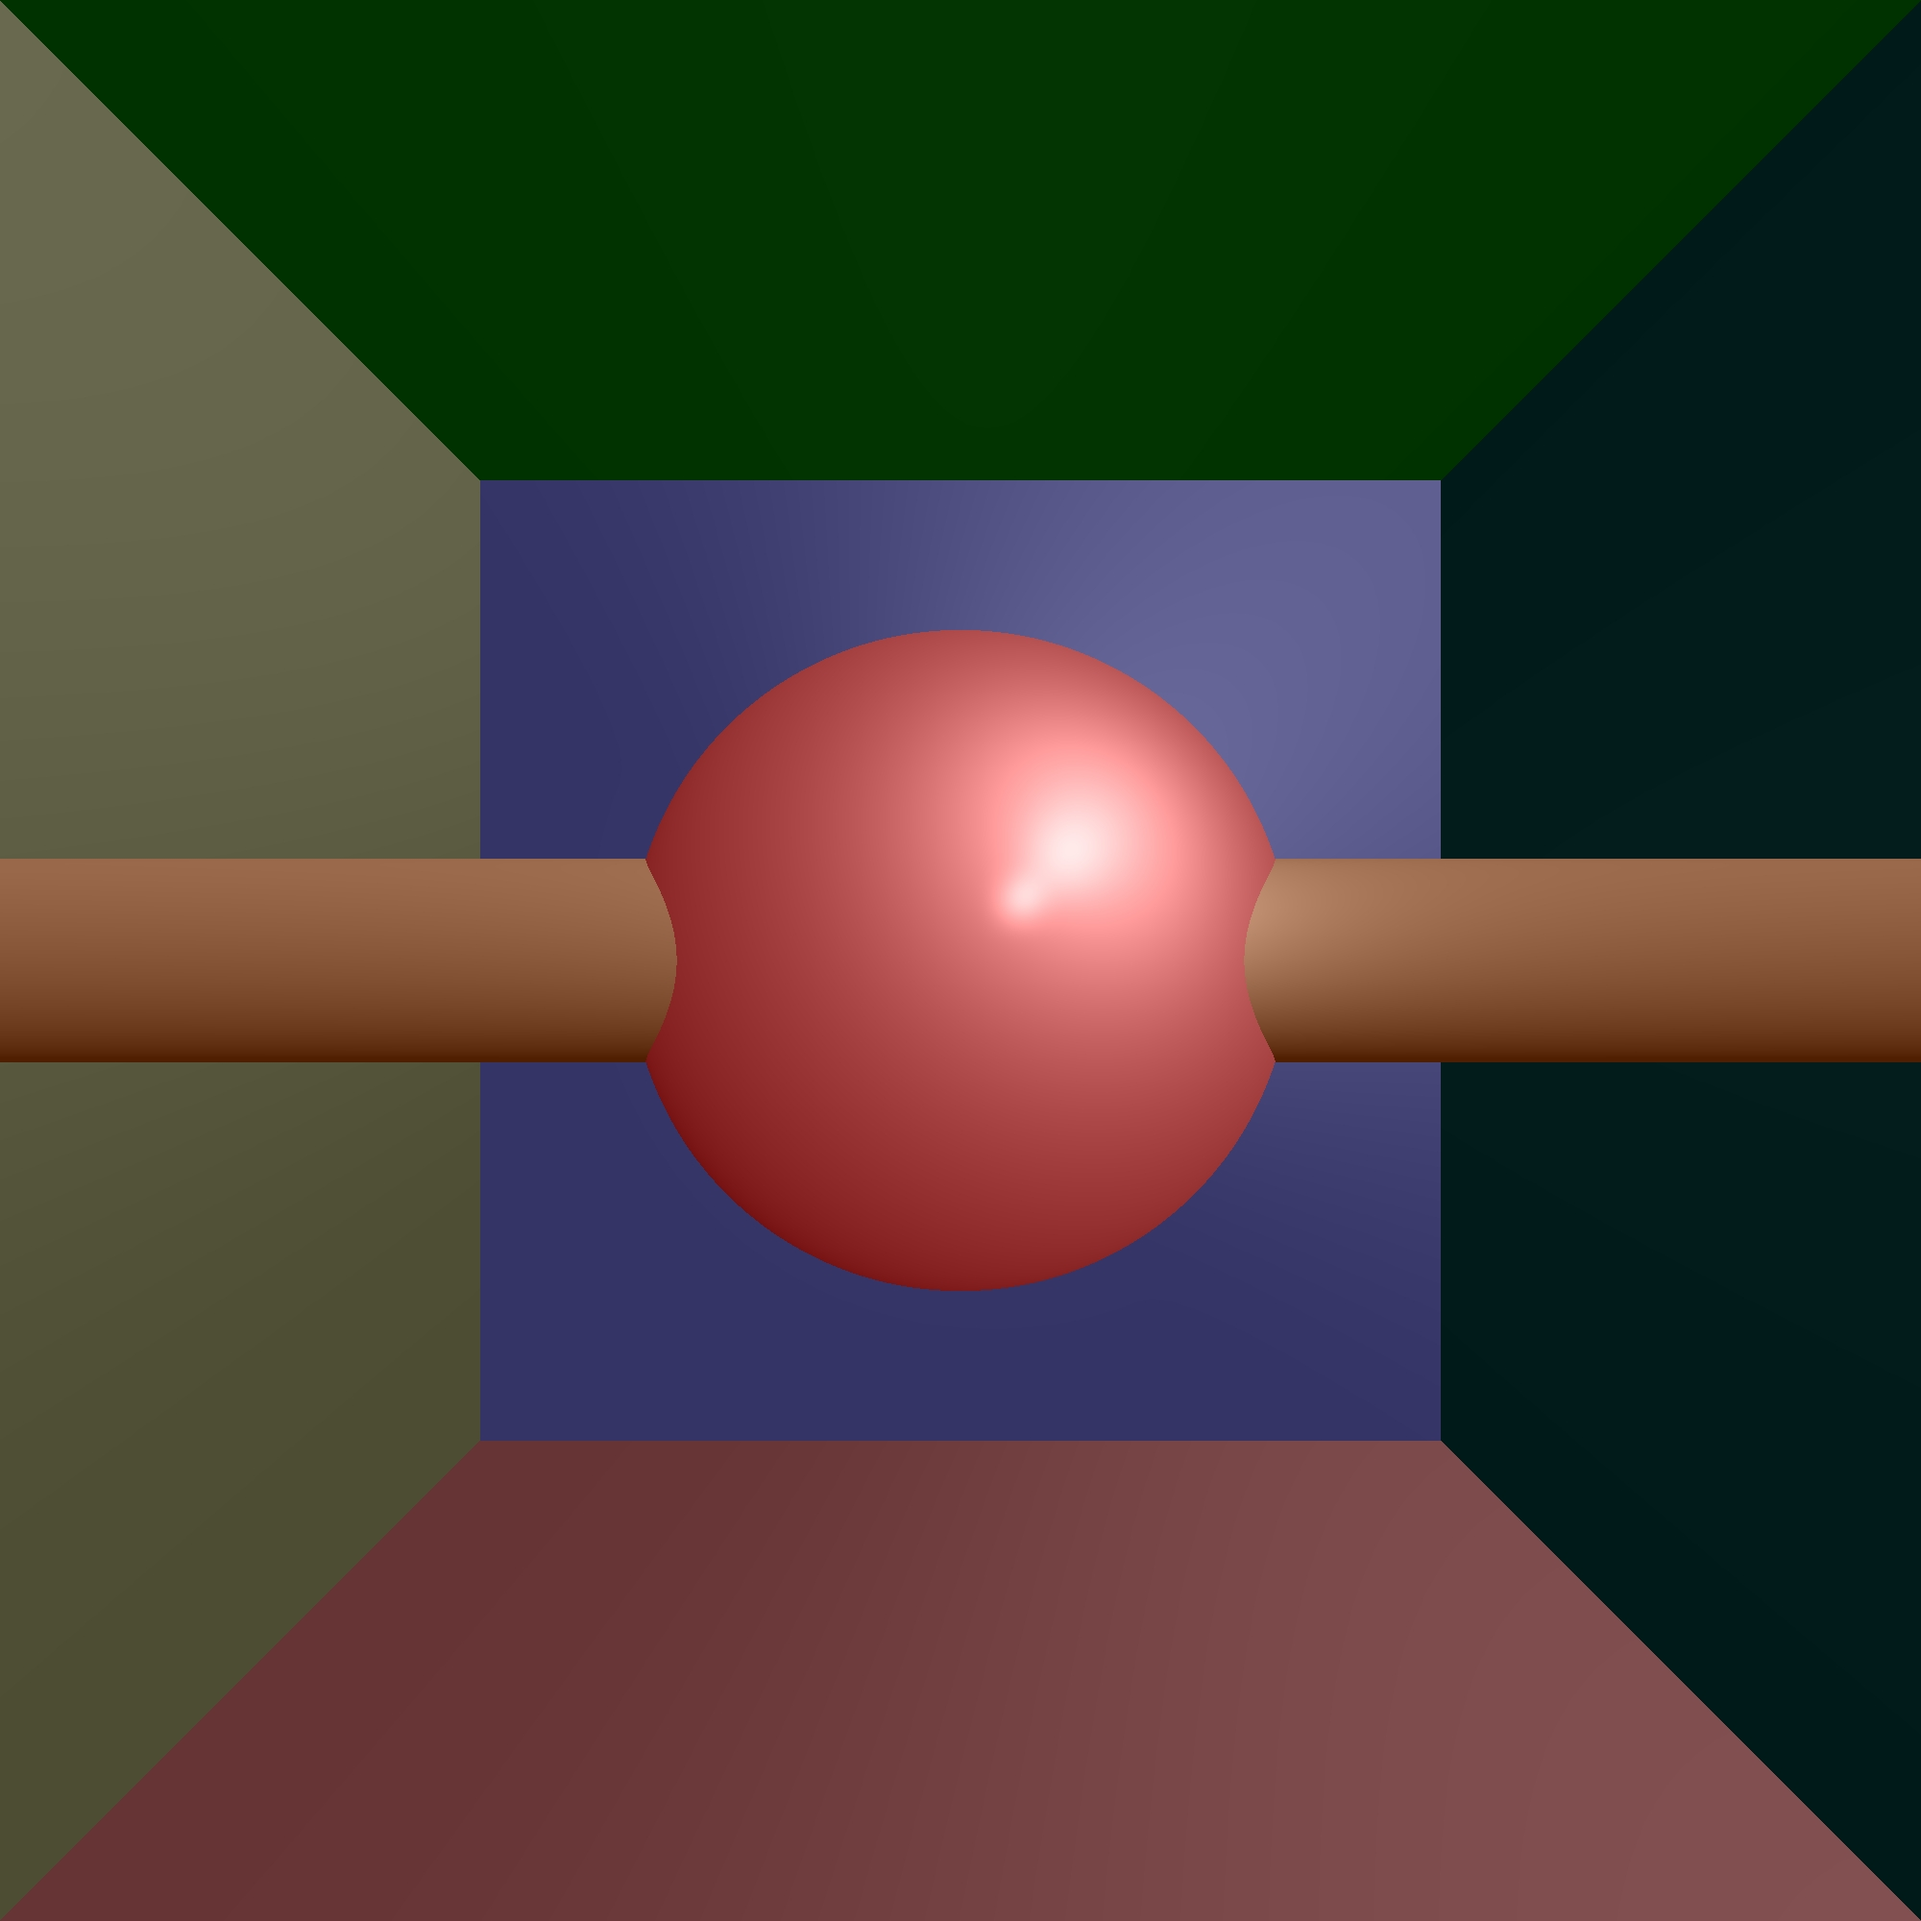
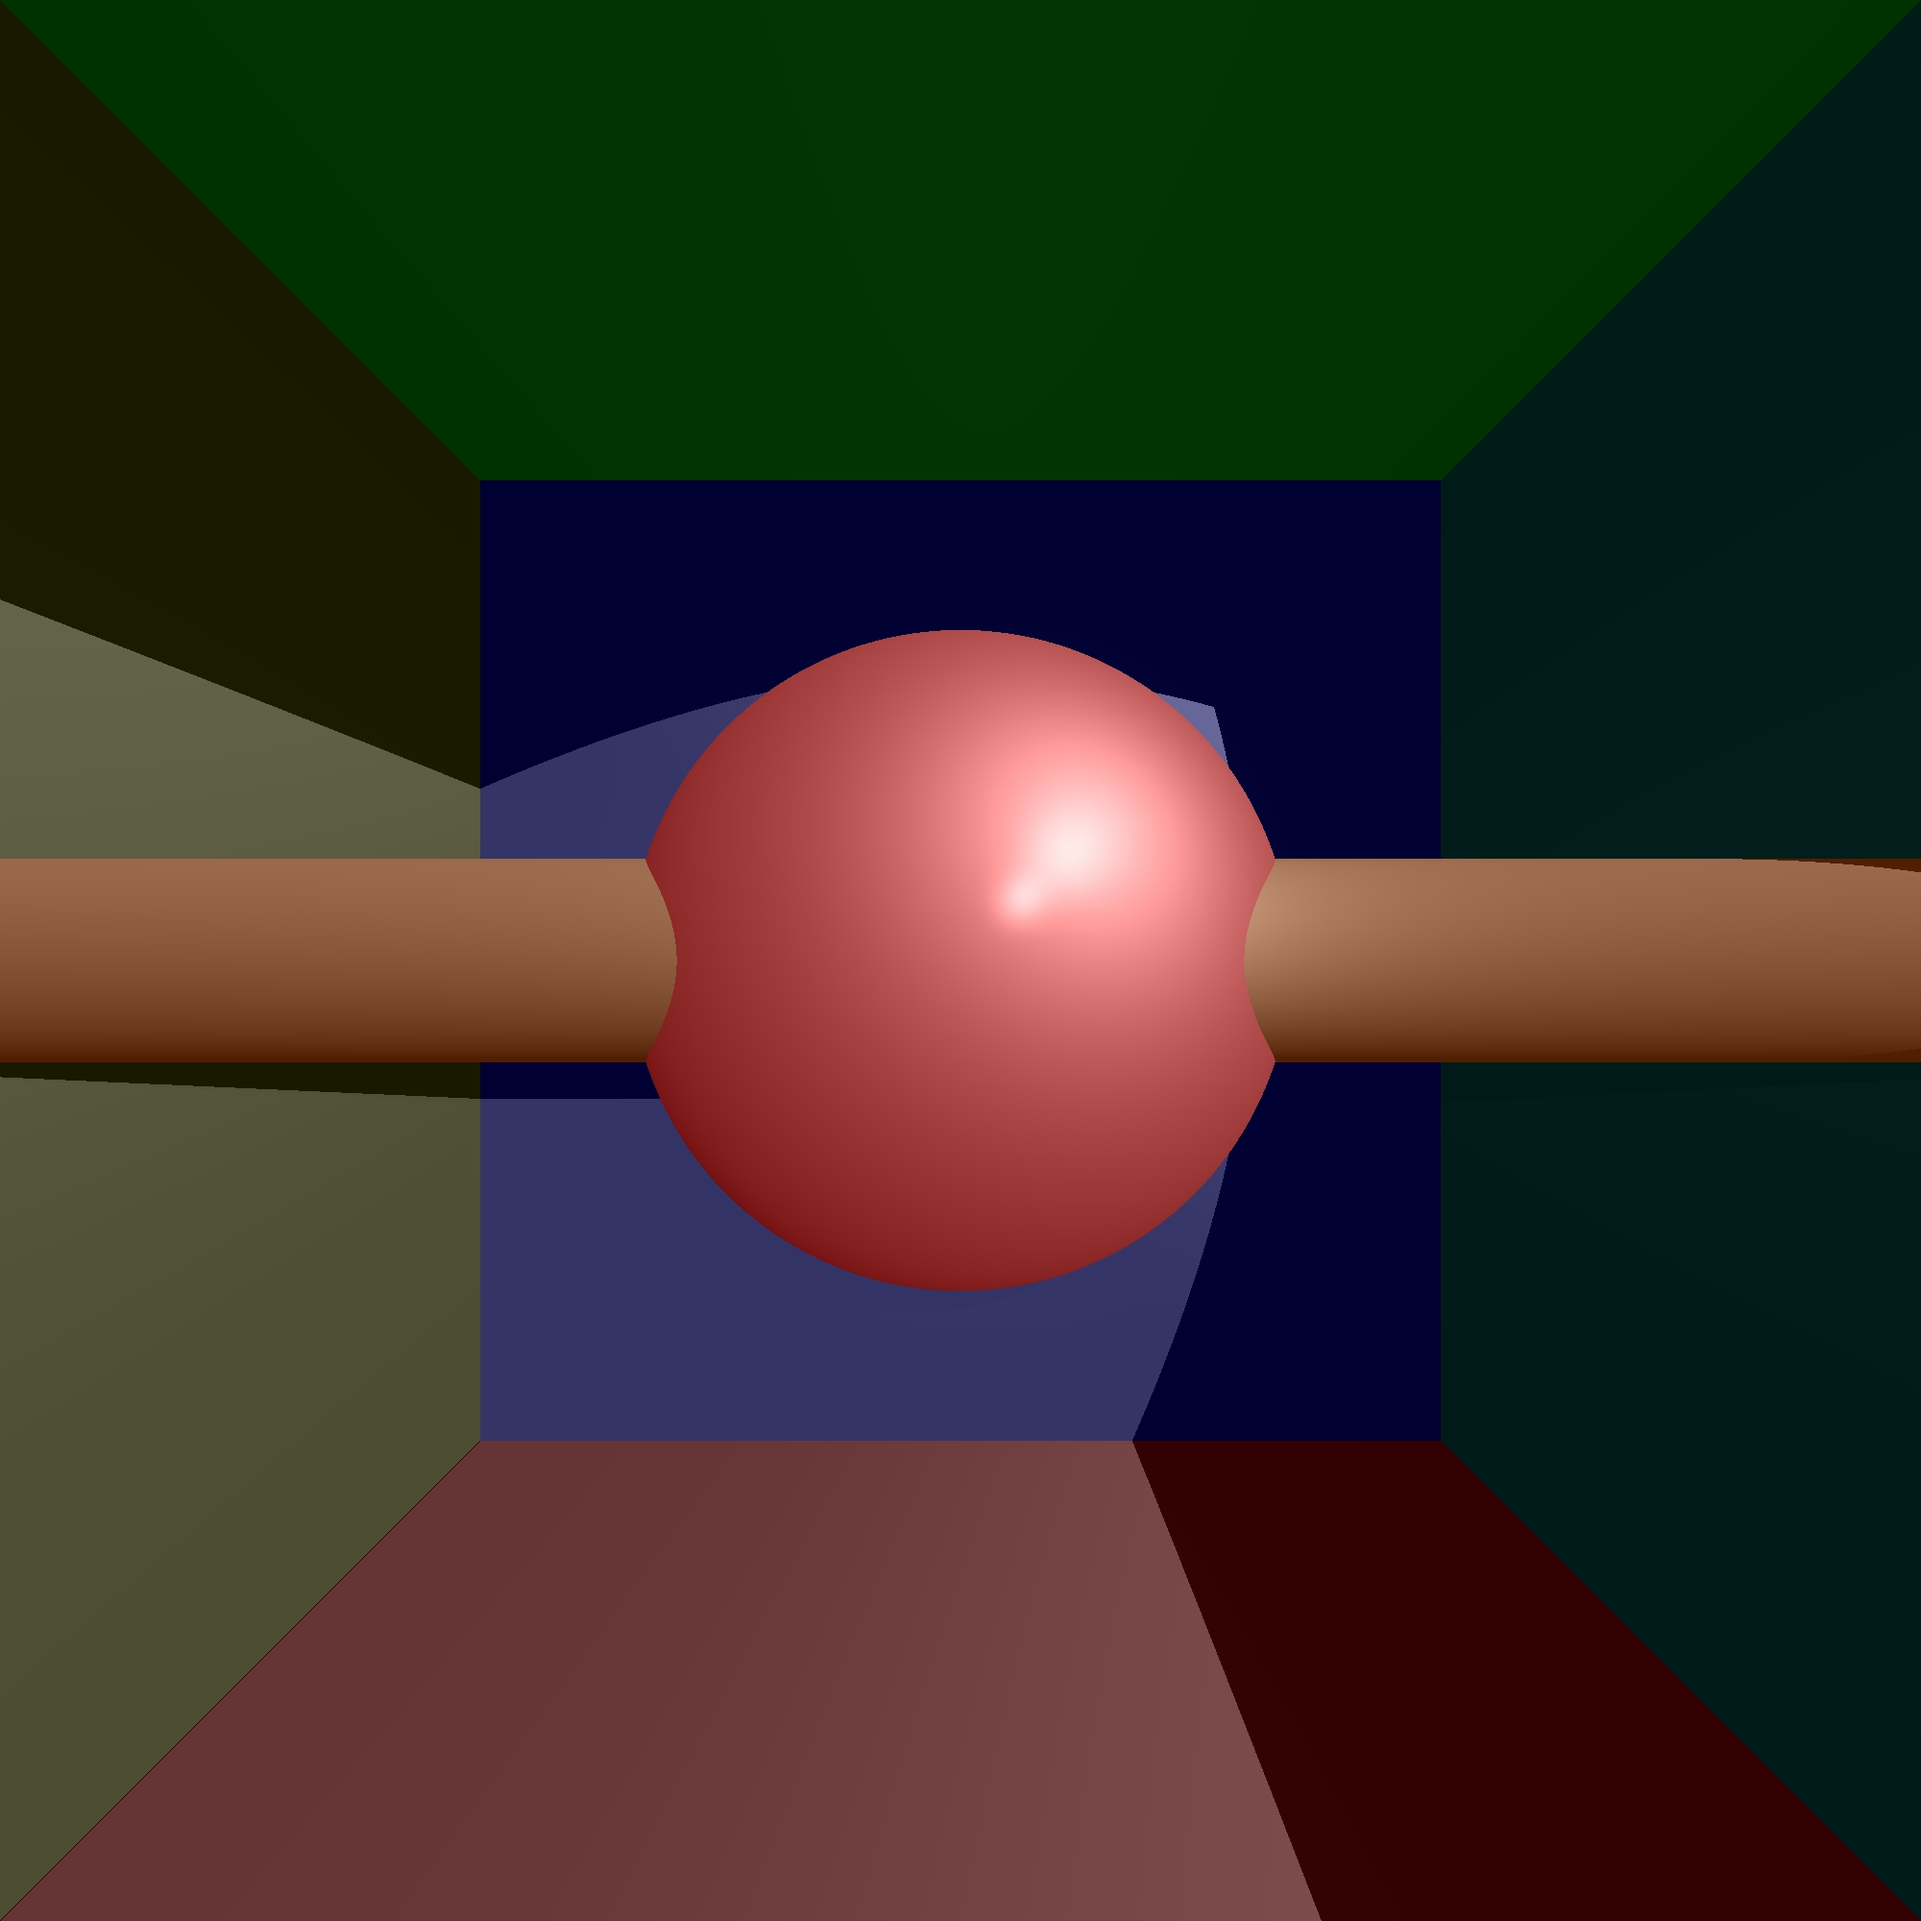
Add Shadow

diff --git a/src/renderer/Render.java b/src/renderer/Render.java
@@ -4,12 +4,15 @@ import elements.Camera;
 import elements.LightSource;
 import geometries.Geometries;
 import geometries.Intersectable;
+import geometries.Sphere;
 import primitives.Point3D;
 import primitives.Ray;
 import primitives.Vector;
 import scene.Scene;
 
 import java.awt.*;
+import java.util.ArrayList;
+import java.util.LinkedList;
 import java.util.List;
 
 /**
@@ -72,7 +75,7 @@ public class Render {
             for(int j=0;j<ny;j++){
                 // get all the rays who goes through every pixel and see if they intersects any geometries
                 Ray ray = camera.constructRayThroughPixel(nx,ny,i,j,distance,width,height);
-                Intersectable.GeoPoint intersection = getClosestPoint(geometries.findIntersections(ray));
+                Intersectable.GeoPoint intersection = getClosestPoint(getSceneIntersections(ray,-1));
                 if(intersection == null)
                     _imageWriter.writePixel(i,j,background); // no intersection = background color
                 else{
@@ -105,10 +108,12 @@ public class Render {
         for (LightSource lightSource : _scene.getLights()) {
             Vector l = lightSource.getL(geopoint.point);
             if (n.dotProduct(l) * n.dotProduct(v) > 0) {
-                //add light
-                primitives.Color lightIntensity = lightSource.getIntensity(geopoint.point);
-                color = color.add(calcDiffusive(kd, l, n, lightIntensity),
-                        calcSpecular(ks, l, n, v, nShininess, lightIntensity));
+                if(!occluded(l,geopoint)) {
+                    //add light
+                    primitives.Color lightIntensity = lightSource.getIntensity(geopoint.point);
+                    color = color.add(calcDiffusive(kd, l, n, lightIntensity),
+                            calcSpecular(ks, l, n, v, nShininess, lightIntensity));
+                }
             }
         }
 
@@ -188,5 +193,43 @@ public class Render {
         }
 
     }
+
+    /**
+     * Check if is occuled
+     * @param l vector from light
+     * @param geoPoint point
+     * @return boolean
+     */
+    private boolean occluded(Vector l, Intersectable.GeoPoint geoPoint) {
+        Vector lightDirection = l.scale(-1); //from point to light source
+        Vector normal = geoPoint.geometry.getNormal(geoPoint.point);
+        Vector epsVector = normal.scale((normal.dotProduct(lightDirection) > 0) ? 2 : -2);
+        Point3D geometryPoint = geoPoint.point.add(epsVector);
+        Ray lightRay = new Ray(geometryPoint, lightDirection);
+        List<Intersectable.GeoPoint> intersectionPoints  =
+                getSceneIntersections(lightRay,l.getPoint3D().distance2(geoPoint.point));
+        return  !intersectionPoints.isEmpty();
+    }
+
+    /**
+     * get all scene intersections with ray
+     * @param ray the ray
+     * @param distance2 the max distance. if -1 then returns all.
+     * @return list with intersections
+     */
+    private List<Intersectable.GeoPoint> getSceneIntersections(Ray ray,double distance2){
+        List<Intersectable.GeoPoint> intersections = _scene.getGeometries().findIntersections(ray);
+        if(distance2 == -1)
+            return intersections;
+        List<Intersectable.GeoPoint> filteredIntersections=new LinkedList<>();
+        for (Intersectable.GeoPoint point:intersections) {
+            if(ray.getPoint3D().distance2(point.point)<=distance2){
+                filteredIntersections.add(point);
+            }
+        }
+        return filteredIntersections;
+    }
+
+
 }
 
